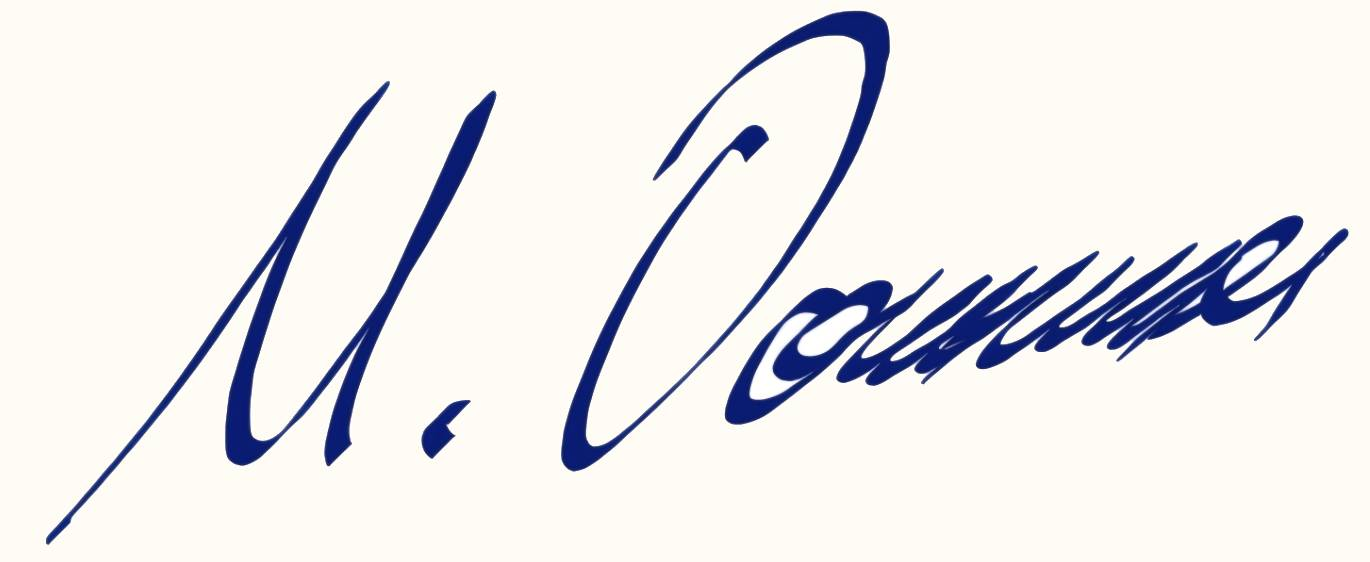
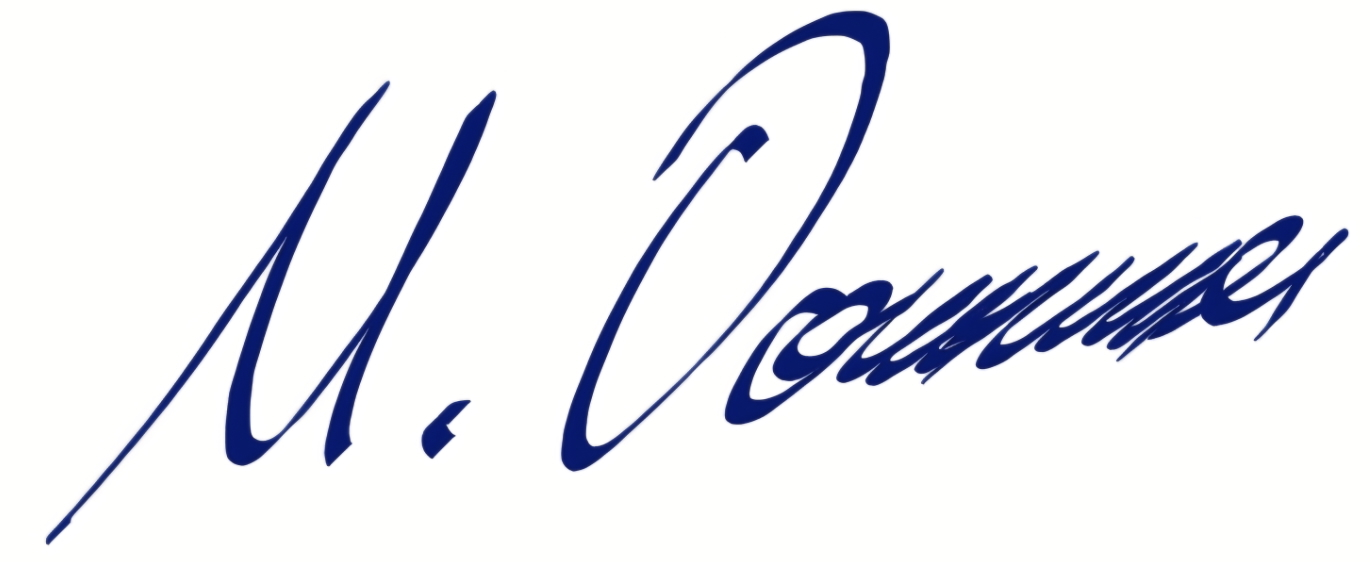
Add files via upload

diff --git a/netlify/functions/certificate.js b/netlify/functions/certificate.js
@@ -15,11 +15,14 @@
 // eingerichtet wurden (siehe DEPLOYMENT.md). Ohne diese ist nur "Ausdrucken/
 // Herunterladen" möglich, kein E-Mail-Versand.
 //
-// Für das Siegel und die Unterschrift werden mitgelieferte Bilder genutzt
-// (netlify/functions/images/Siegel.png bzw. Unterschrift.jpg). Fehlt eine Datei
-// ausnahmsweise, greift jeweils ein einfacher Text-Fallback. WICHTIG: der
-// gesamte Bilderordner muss zusammen mit netlify.toml (included_files) deployt
-// werden, sonst schlägt die PDF-Erstellung fehl.
+// Für das Siegel wird ein mitgeliefertes Bild genutzt (netlify/functions/images/
+// Siegel.png). Die Unterschrift wird ANHAND DER SIGNATUR-ID des im Zertifikat-
+// Formular ausgewählten Übungsleiters geladen (netlify/functions/images/01.jpg,
+// 02.jpg, 03.jpg, ...). Diese IDs werden vom Admin je Nutzerkonto in der
+// Nutzerverwaltung hinterlegt. Fehlt eine Datei ausnahmsweise, greift jeweils ein
+// einfacher Text-Fallback. WICHTIG: der gesamte Bilderordner muss zusammen mit
+// netlify.toml (included_files) deployt werden, sonst schlägt die PDF-Erstellung
+// fehl.
 // ============================================================================
 
 const crypto = require("crypto");
@@ -163,14 +166,21 @@ function buildCertificatePdfBuffer(data) {
     doc.fillColor("#5C6B84").font("Helvetica").fontSize(8)
       .text("Ort, Datum", leftX, bottomY + 30, { width: colW, align: "center" });
 
-    // Eingescanntes Unterschriftsbild oberhalb der Linie (Seitenverhältnis beibehalten)
+    // Eingescanntes Unterschriftsbild oberhalb der Linie, anhand der Signatur-ID des im
+    // Formular ausgewählten Übungsleiters (z.B. Signatur-ID "01" -> images/01.jpg).
+    // Seitenverhältnis wird automatisch aus der jeweiligen Bilddatei ermittelt, damit
+    // unterschiedlich große Unterschrift-Scans nicht verzerrt werden.
     try {
-      const sigPath = path.join(__dirname, "images", "Unterschrift.jpg");
-      const sigW = 150, sigH = sigW * (562 / 1370); // Original-Seitenverhältnis der Datei
-      doc.image(sigPath, rightX + (colW - sigW) / 2, bottomY - sigH + 4, { width: sigW, height: sigH });
+      const rawId = (data.signaturId || "").toString().trim();
+      if (!rawId) throw new Error("Kein Übungsleiter mit hinterlegter Signatur-ID ausgewählt");
+      const idPadded = rawId.padStart(2, "0");
+      const sigPath = path.join(__dirname, "images", `${idPadded}.jpg`);
+      const img = doc.openImage(sigPath);
+      const sigW = 150, sigH = sigW * (img.height / img.width);
+      doc.image(img, rightX + (colW - sigW) / 2, bottomY - sigH + 4, { width: sigW, height: sigH });
     } catch (e) {
       doc.fillColor(navy).font("Helvetica-Oblique").fontSize(15)
-        .text("M. Dommes", rightX, bottomY - 2, { width: colW, align: "center" });
+        .text(data.uebungsleiter || "", rightX, bottomY - 2, { width: colW, align: "center" });
     }
     doc.moveTo(rightX, bottomY + 26).lineTo(rightX + colW, bottomY + 26).lineWidth(0.75).strokeColor("#888").stroke();
     doc.fillColor("#5C6B84").font("Helvetica").fontSize(8)

diff --git a/netlify/functions/auth.js b/netlify/functions/auth.js
@@ -278,6 +278,20 @@ exports.handler = async function (event) {
       return resp({ ok: true });
     }
 
+    // ---------------- ÜBUNGSLEITER-LISTE FÜR ZERTIFIKATE (jedes gültige Token) ----------------
+    // Bewusst eine eigene, schwächer abgesicherte Aktion (kein Admin-Token nötig), da auch
+    // Übungsleiter (nicht nur Admins) beim Zertifikate-Erstellen den passenden Übungsleiter samt
+    // hinterlegter Signatur-ID auswählen können müssen. Es werden NUR unkritische Felder
+    // zurückgegeben (kein Passwort-Hash, keine E-Mail, kein Sperrstatus).
+    if (payload.action === "listTrainers") {
+      const claims = verifyToken(payload.token, SECRET);
+      if (!claims) return resp({ ok: false, error: "Sitzung abgelaufen oder ungültig – bitte neu einloggen" });
+      const trainers = Object.values(users)
+        .filter(u => u.role === "admin" || u.role === "uebungsleiter")
+        .map(u => ({ username: u.username, role: u.role, signaturId: u.signaturId || "" }));
+      return resp({ ok: true, trainers });
+    }
+
     // ---------------- ADMIN-AKTIONEN (erfordern gültiges Admin-Token) ----------------
     if (payload.action === "adminOp") {
       const claims = verifyToken(payload.token, SECRET);
@@ -302,7 +316,7 @@ exports.handler = async function (event) {
         const { salt, hash } = hashPassword(p.password);
         users[p.username] = { username: p.username, email: p.email || "", role: p.role || "teilnehmer",
           locked: false, createdAt: nowStamp(), lastLogin: null, passwordSalt: salt, passwordHash: hash,
-          emailVerified: true }; // vom Admin direkt angelegt -> keine Mail-Verifizierung nötig
+          emailVerified: true, signaturId: p.signaturId || "" }; // vom Admin direkt angelegt -> keine Mail-Verifizierung nötig
         await saveUsers(users);
         return resp({ ok: true });
       }
@@ -321,6 +335,7 @@ exports.handler = async function (event) {
         if (p.email !== undefined) u.email = p.email;
         if (p.role !== undefined) u.role = p.role;
         if (p.locked !== undefined) u.locked = p.locked;
+        if (p.signaturId !== undefined) u.signaturId = p.signaturId;
         await saveUsers(users);
         return resp({ ok: true, finalUsername });
       }
